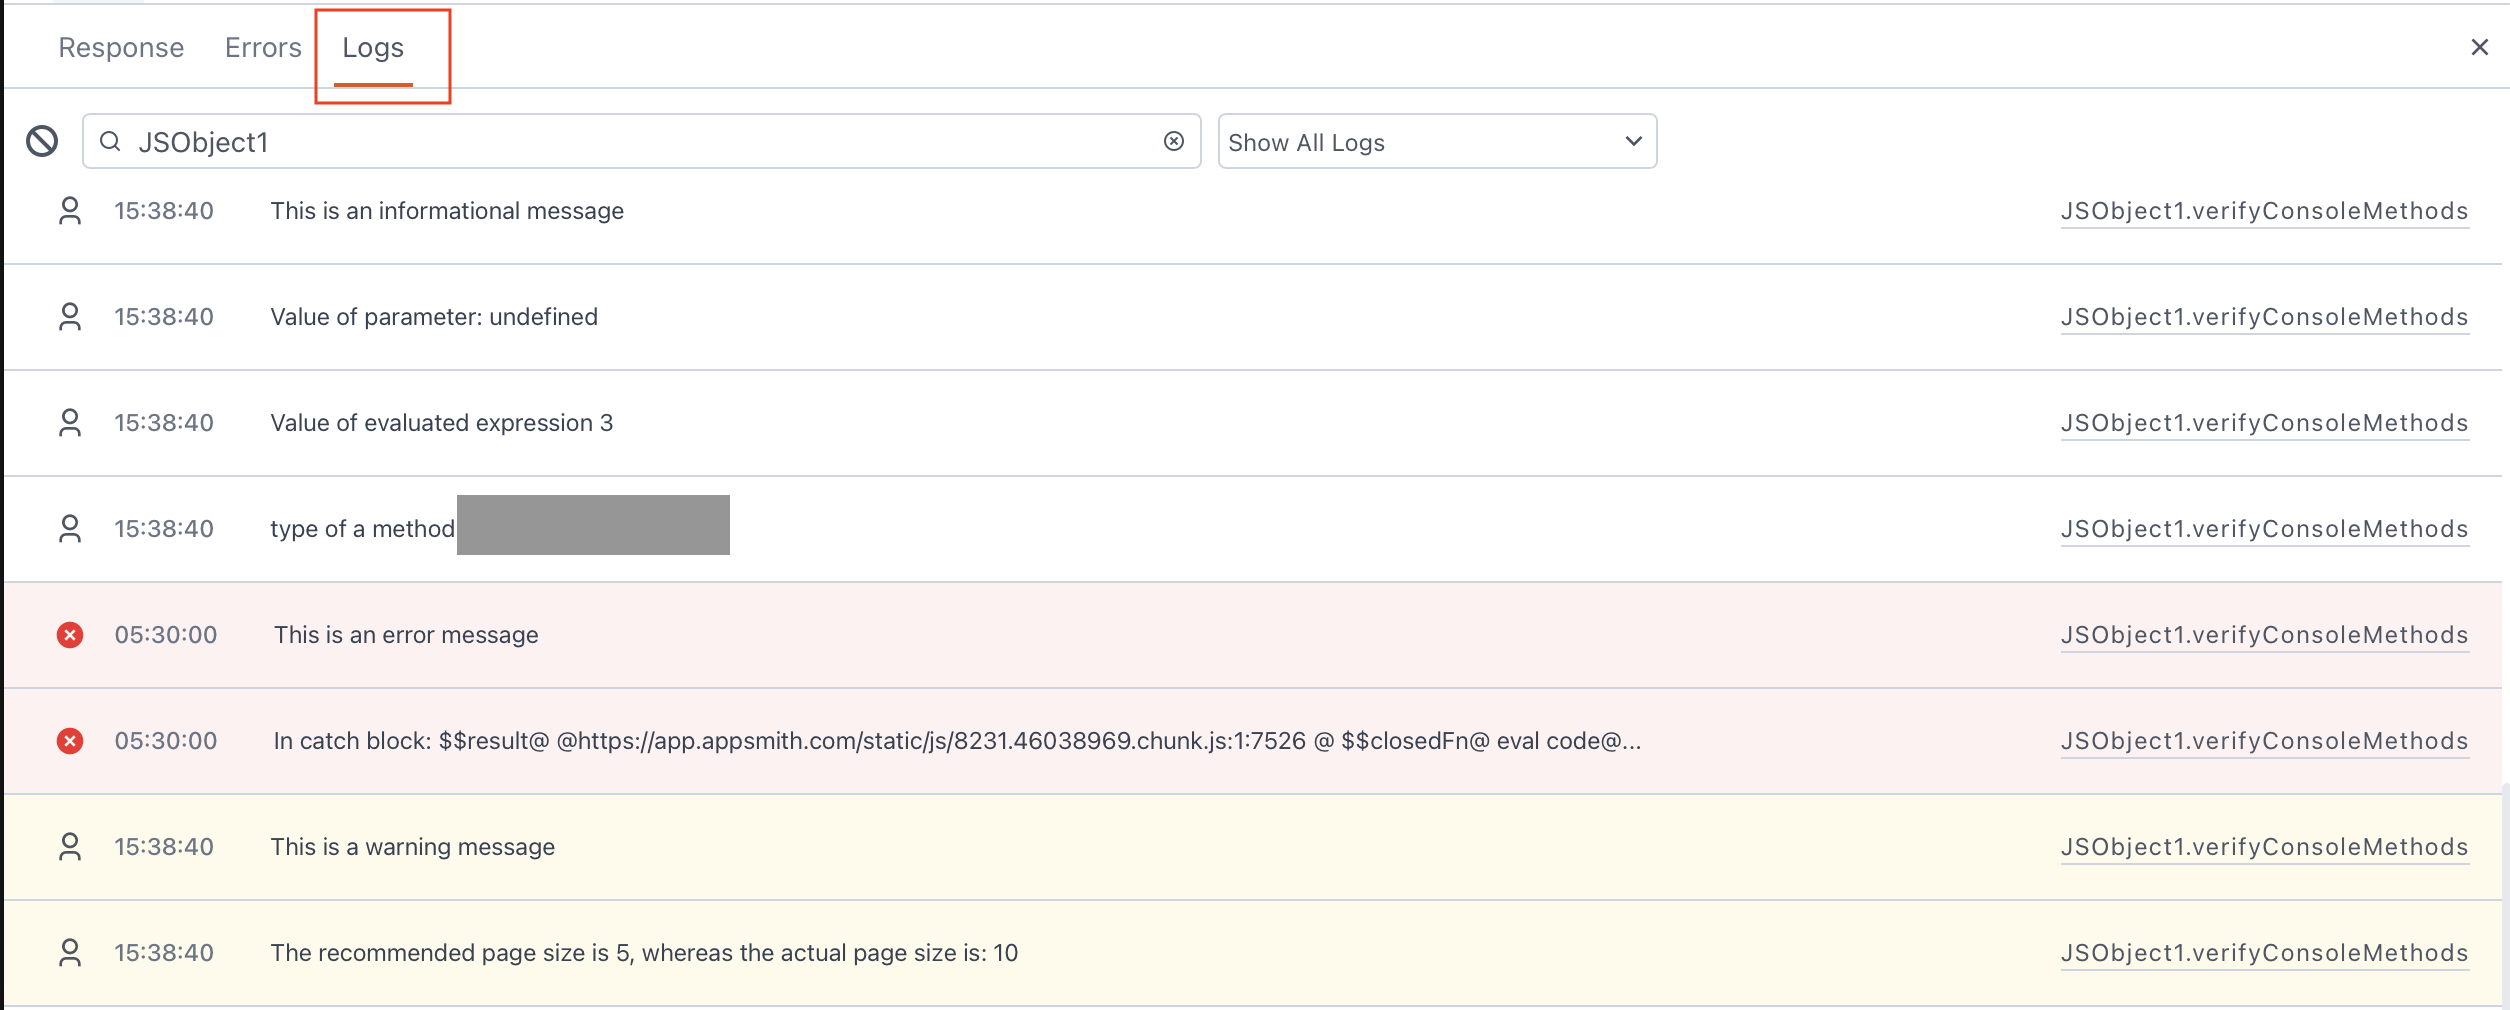
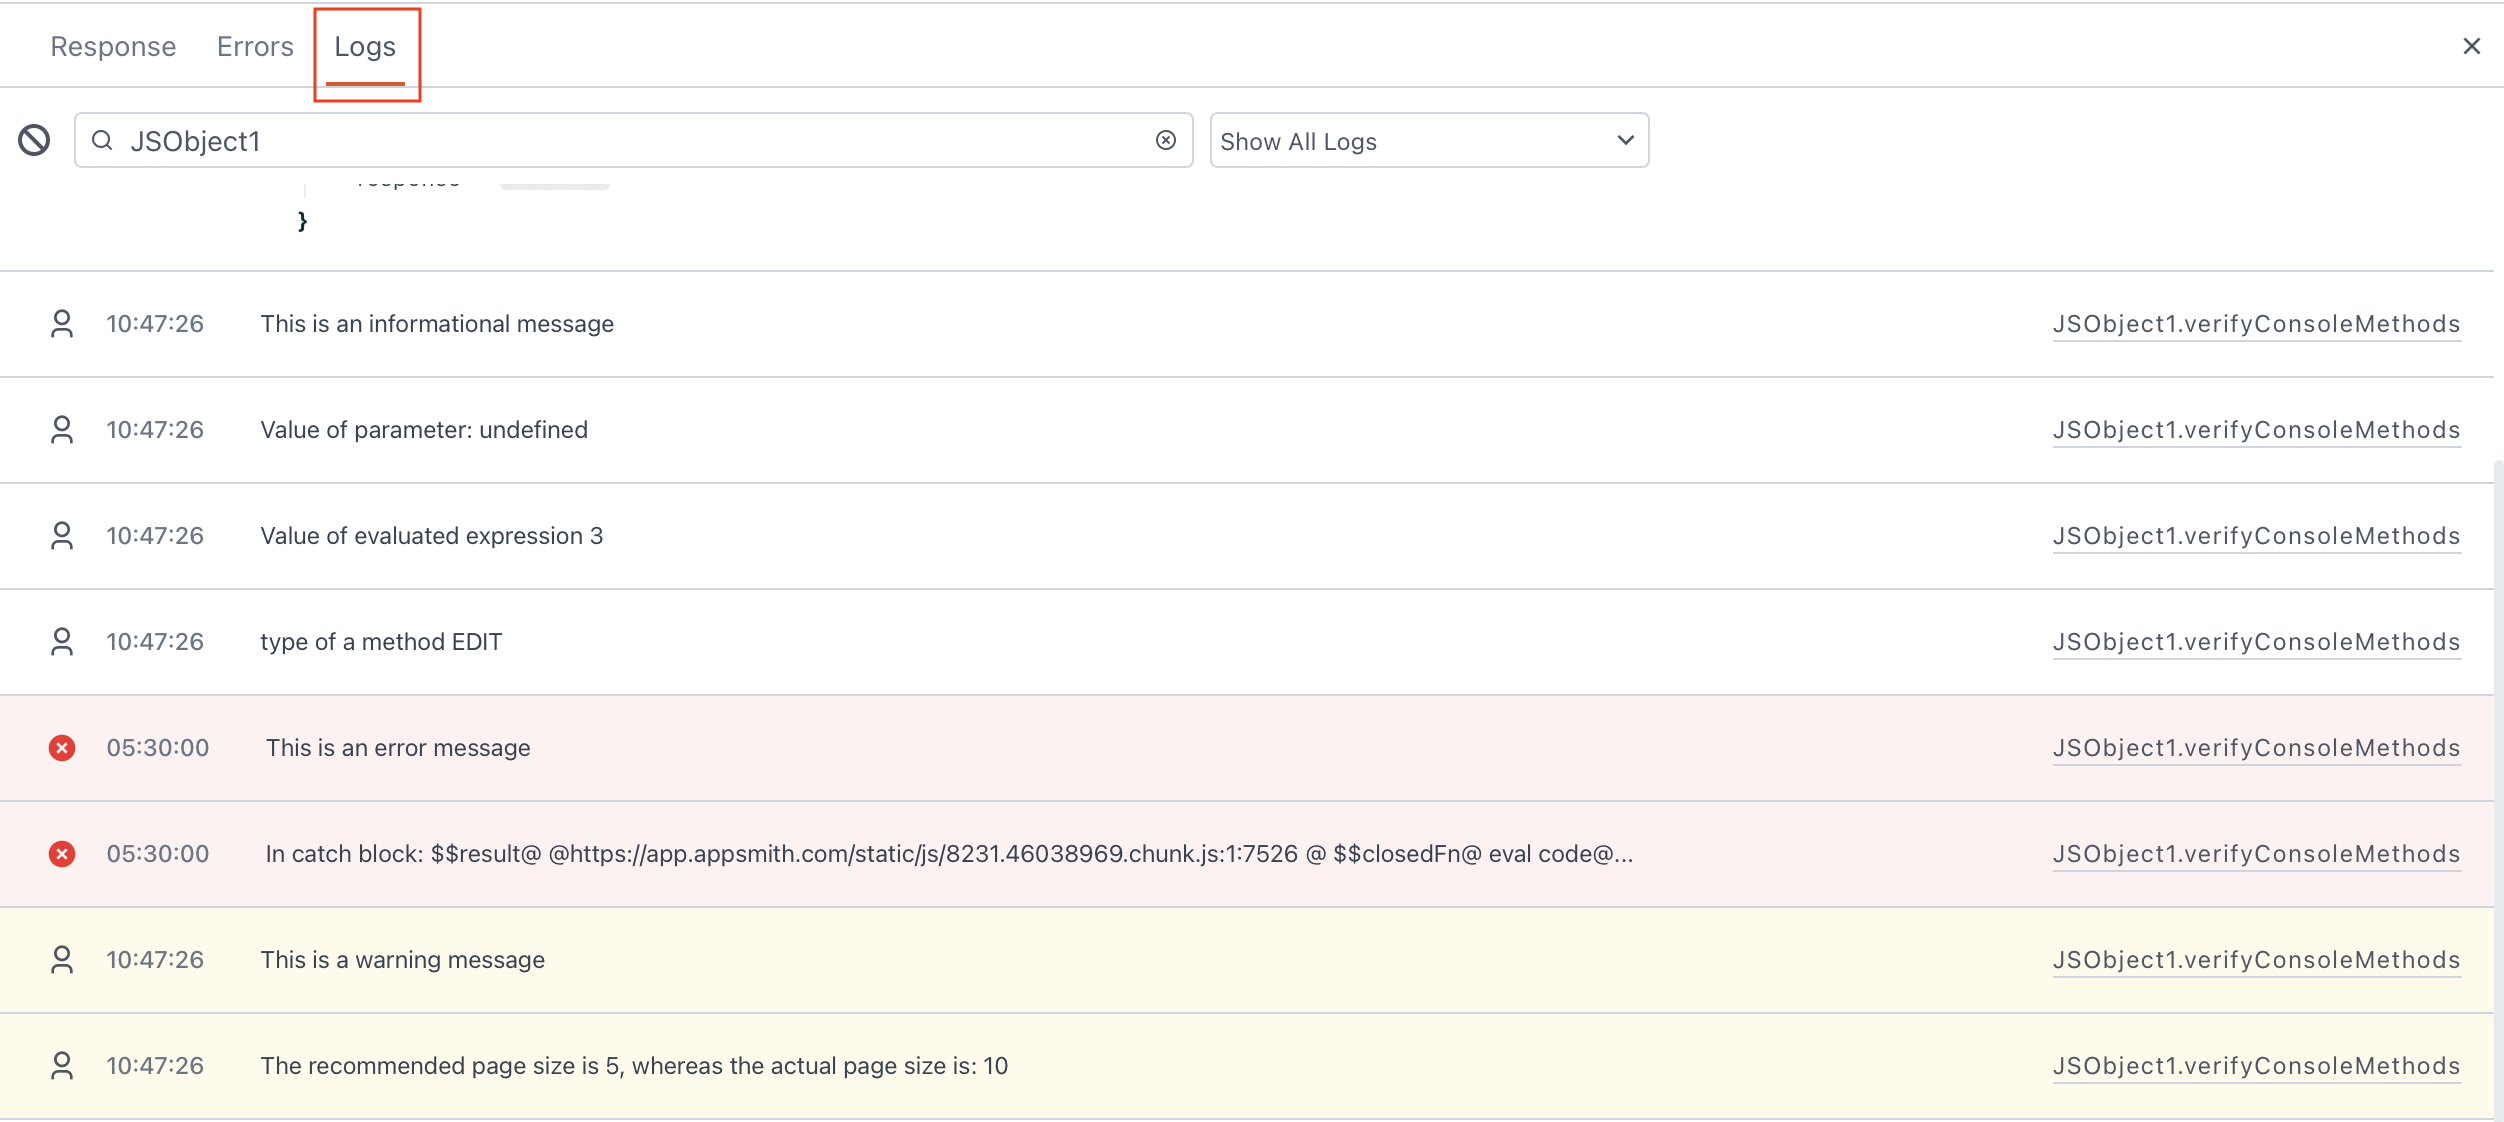
chore: minor updates to console object doc (#1686)
- Updated screenshot
- Updated code snippet comments to add that the parameters are appended
to the message.

## Checklist
I have:
- [x] run the content through Grammarly
- [ ] linked to sample apps when relevant
- [ ] added the meta description for each page in the PR
- [ ] minimized the callouts and added only when necessary
- [ ] added the `queryString` parameter to the Tabs (if used)
- [ ] masked PII in images. For example, login credentials, account
details, and more
- [ ] added images only when necessary
- [ ] deleted the images that are no longer used for the updated pages
in the PR
- [ ] followed the image file naming convention while renaming or adding
new images. (Use lowercase letters, dashes between words, and be as
descriptive as possible)
- [ ] used the `<figure/>` tag instead of a markdown representation for
images
- [ ] added the `<figcaption/>` tag to add a caption to the image
- [ ] added the `alt` attribute in the `<img/>` tag
- [ ] verified and updated the cross-references or created redirect
rules for the changed or removed content
- [ ] reviewed and applied the style changes for UI formatting. For
example, Bold the UI elements(Buttons on screen) used in the doc.

diff --git a/website/docs/reference/appsmith-framework/console-object.md b/website/docs/reference/appsmith-framework/console-object.md
@@ -23,13 +23,13 @@ The console.log() method is used for logging informational messages. It accepts 
 // Logs the given string message.
 console.log('This is an informational message');
 
-// Logs the value of parameters, where param1 is an argument to a method.
+// Logs the value of `param1` after 'parameter:', with 'param1' being appended to the message.
 console.log('Value of parameter:', param1);
 
 // Logs the value of an evaluated expression.
 console.log('Value of evaluated expression', 1 + 2);
 
-// Logs object property.
+// Logs the object property.
 console.log('Value of a property', appsmith.user.email);
 ```
 
@@ -57,6 +57,7 @@ The `console.warn()` method logs warning messages, indicating potential issues o
 // Logs the given string message
 console.warn('This is a warning message');
 
-// Logs a warning message
+// Logs the value of 'actual_page_size' after 'is:'. 
+// The value of 'actual_page_size' being appended to the message. 
 console.warn('The recommended page size is 5, whereas the actual is: ', actual_page_size);
 ```
